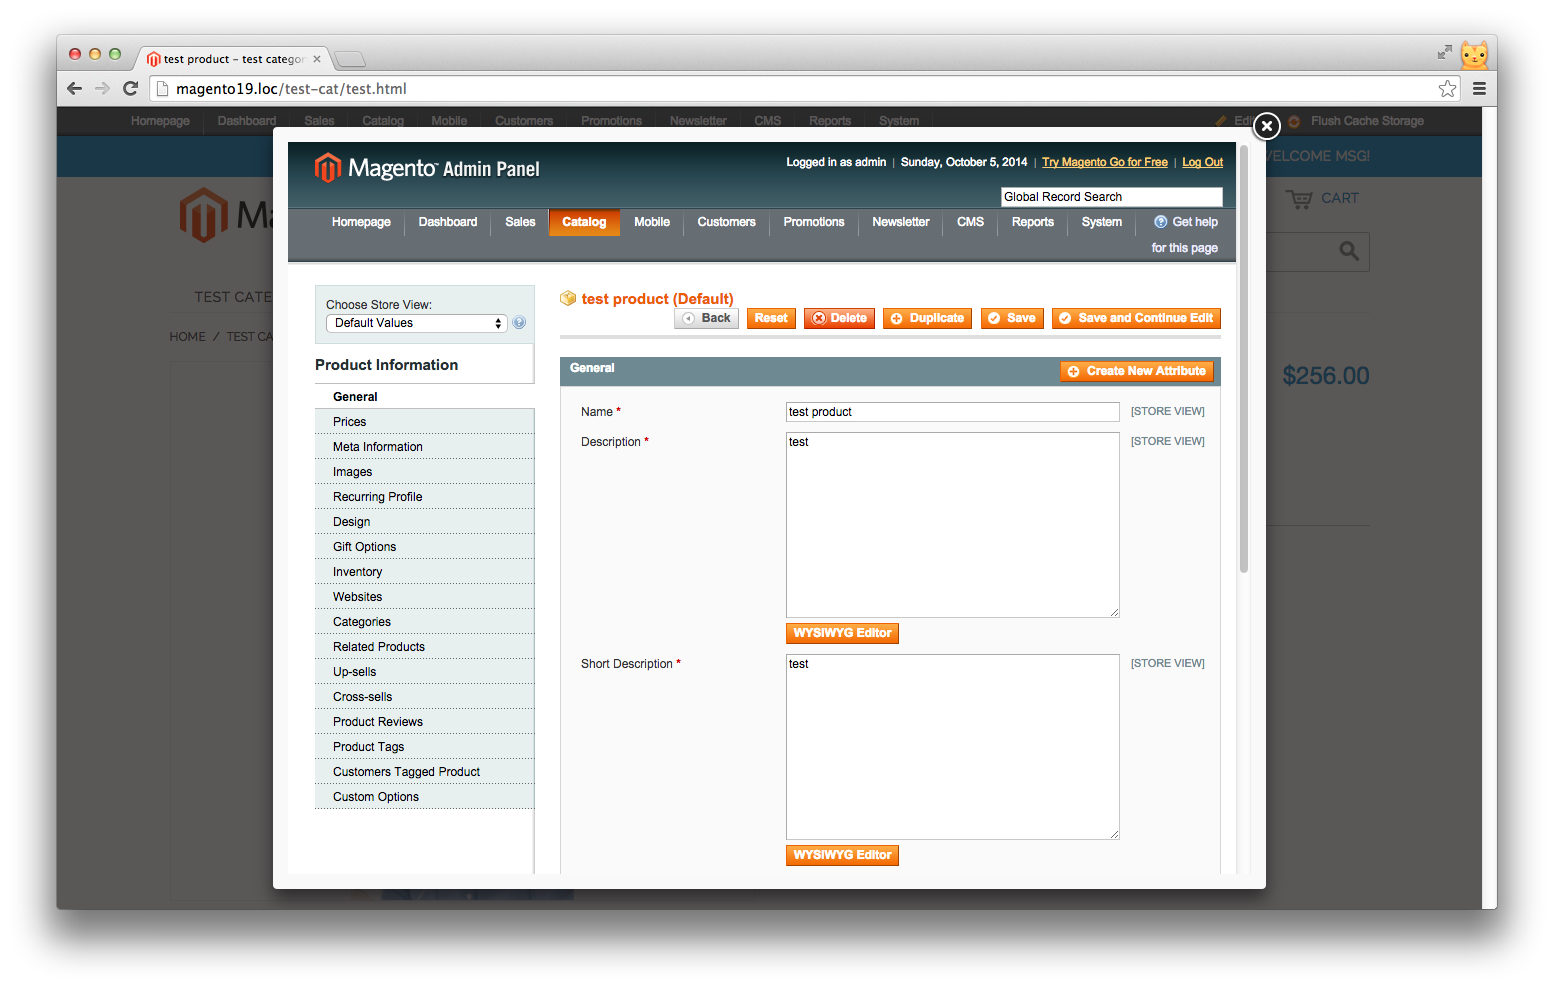
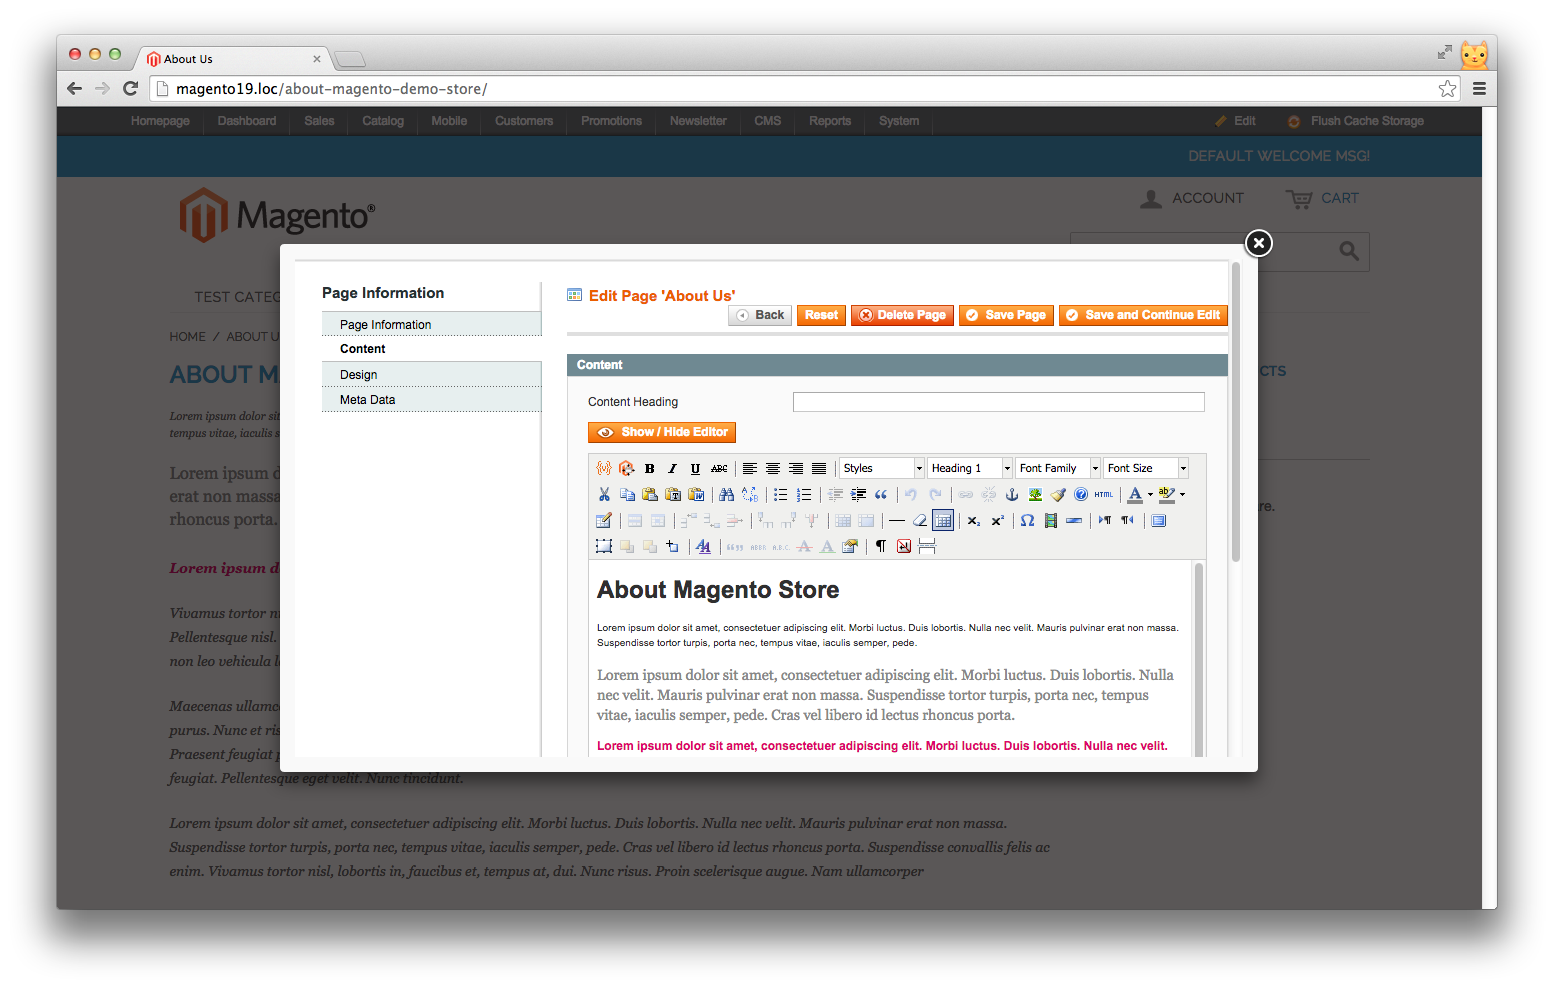
update quickedit

Changed region(s): [[0.0927, 0.0607, 0.8958, 0.9109]]

diff --git a/js/frontadmin/frontadmin.js b/js/frontadmin/frontadmin.js
@@ -1,8 +1,5 @@
 jQuery.noConflict();
 var jQueryMeobook = jQuery;
-// Inject css
-jQueryMeobook('head').append('<link rel="stylesheet" type="text/css" href="' + document.location.origin + '/js/frontadmin/frontadmin.css" media="all">');
-jQueryMeobook('head').append('<link rel="stylesheet" type="text/css" href="' + document.location.origin + '/js/frontadmin/jquery.fancybox.css" media="all">');
 // Init fancybox
 jQueryMeobook(document).ready(function() {
     if (jQueryMeobook('#page-edit-link a').length) {

diff --git a/js/frontadmin/quickedit.css b/js/frontadmin/quickedit.css
@@ -1,0 +1,1 @@
+.header, .footer {display: none;}

diff --git a/app/code/community/Meobook/Frontadmin/Model/Observer.php b/app/code/community/Meobook/Frontadmin/Model/Observer.php
@@ -23,7 +23,15 @@ class Meobook_Frontadmin_Model_Observer
 		switch ($routePath) {
 			case 'catalog_product':
 			case 'cms_page':
-				$editUrl = Mage::getModel('meobookfrontadmin/url')->getUrl('adminhtml/' . $routePath . '/edit', $request->getParams());
+				$requestParams = $request->getParams();
+				if (is_array($requestParams)) {
+					$requestParams['frontadmin_quickedit'] = true;
+				}
+				else 
+				{
+					$requestParams = array('frontadmin_quickedit' => true);
+				}
+				$editUrl = Mage::getModel('meobookfrontadmin/url')->getUrl('adminhtml/' . $routePath . '/edit', $requestParams);
 				Mage::getSingleton('core/session')->setEditUrl($editUrl);
 				break;
 			case 'meobookfrontadmin_index':
@@ -51,6 +59,15 @@ class Meobook_Frontadmin_Model_Observer
 				$block = $layout->createBlock('meobookfrontadmin/ajax', 'frontadmin_ajax');
 				$layout->getBlock('head')->append($block);
 			}
+		}
+	}
+
+	public function updateHanle(Varien_Event_Observer $observer)
+	{
+		if($observer->getEvent()->getAction()->getRequest()->getParam('frontadmin_quickedit') === '1')
+		{
+			$layout = $observer->getEvent()->getLayout();
+			$layout->getUpdate()->addHandle('frontadmin_quickedit');
 		}
 	}
 }

diff --git a/app/code/community/Meobook/Frontadmin/controllers/Adminhtml/FrontadminController.php b/app/code/community/Meobook/Frontadmin/controllers/Adminhtml/FrontadminController.php
@@ -1,0 +1,14 @@
+<?php
+/**
+ *
+ * @author Minh Tran <minhtc256[at]gmail[dot]com>
+ *
+ */
+class Meobook_Frontadmin_Adminhtml_FrontadminController extends Mage_Adminhtml_Controller_Action 
+{
+	public function testAction()
+    {
+        $this->loadLayout();
+        $this->renderLayout();
+    }
+}
